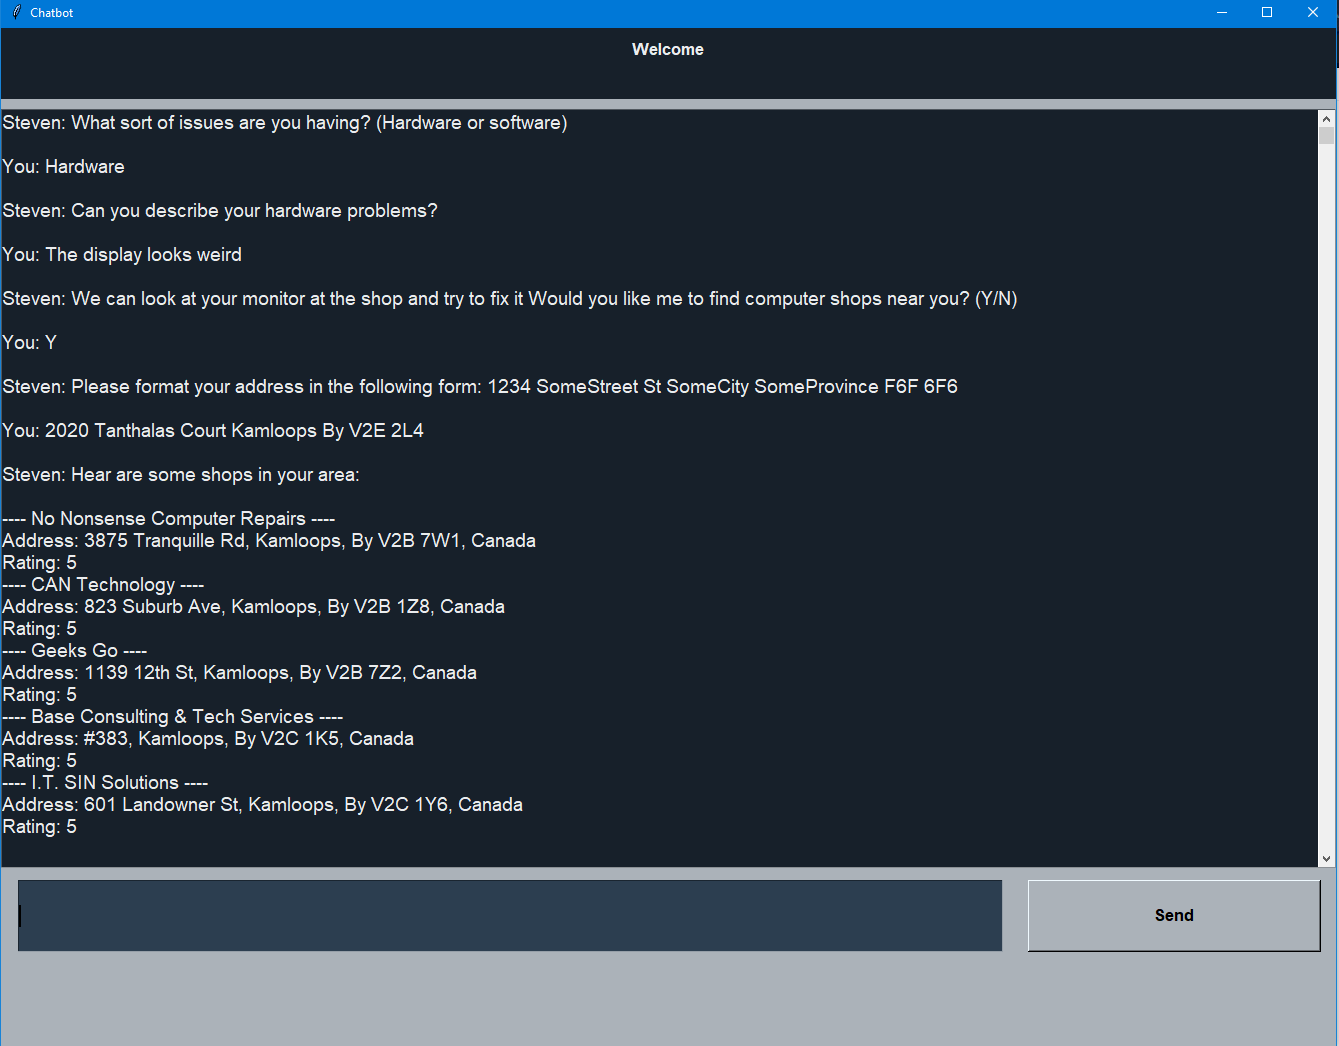
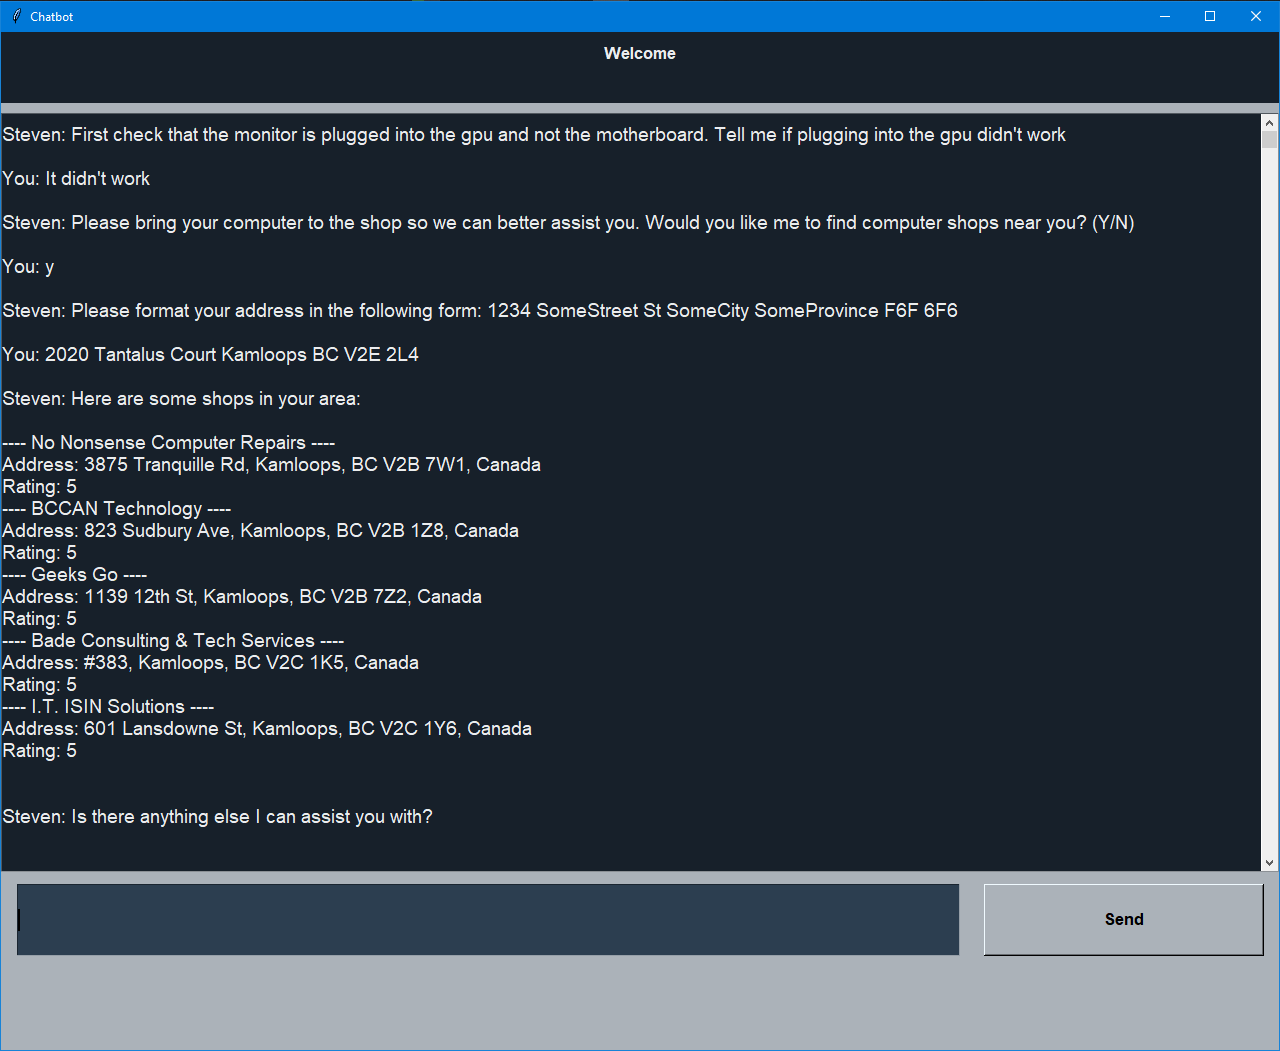
Updated GUI.py as autocorrect feature was interfereing with correct address passing. Updated API.py to remove method call that no longer exists.

diff --git a/Assignment3/NeuralNet_Agent/GUI.py b/Assignment3/NeuralNet_Agent/GUI.py
@@ -109,7 +109,7 @@ class ChatApplication:
         elif self.case == 2:
             api = googleApi()
             api.shopSearch(msg)
-            botResponse = "Hear are some shops in your area:\n\n"
+            botResponse = "Here are some shops in your area:\n\n"
             path = settings.joinpath(settings.NEURAL_NET_AGENT_PATH, "placesSearch.json")
             with open(path) as jsonFile:
                 searchedLocations = json.load(jsonFile)
@@ -130,7 +130,7 @@ class ChatApplication:
     def _insert_message(self, msg, sender):
         if not msg:
             return  # if there is no text entered
-        msg = self.agent.spellCheck(msg)
+        # msg = self.agent.spellCheck(msg)
         self.msg_entry.delete(0, END)
         msg1 = f"{sender}: {msg}\n\n"
         self.text_widget.configure(state=NORMAL)

diff --git a/Assignment3/NeuralNet_Agent/API.py b/Assignment3/NeuralNet_Agent/API.py
@@ -23,7 +23,7 @@ class googleApi:
     def addressLookup(self, client, streetAddress):
         geocode_result = client.geocode(streetAddress)
         # pprint(f'gecode response: {geocode_result}')
-        # print(geocode_result[0]['geometry']['location'])
+        print(geocode_result[0]['geometry']['location'])
         location = geocode_result[0]['geometry']['location']
         return location['lat'], location['lng']
 
@@ -47,9 +47,8 @@ class googleApi:
 
 def main():
     gsearch = googleApi()
-    streetAddress = "260 Franklyn Rd Kelowna BC V1X 8C!"
+    streetAddress = "2020 Tantalus Court Kamloops BC V1X 8C1"
     gsearch.shopSearch(streetAddress)
-    gsearch.searchResults()
 
 
 if __name__ == '__main__':
